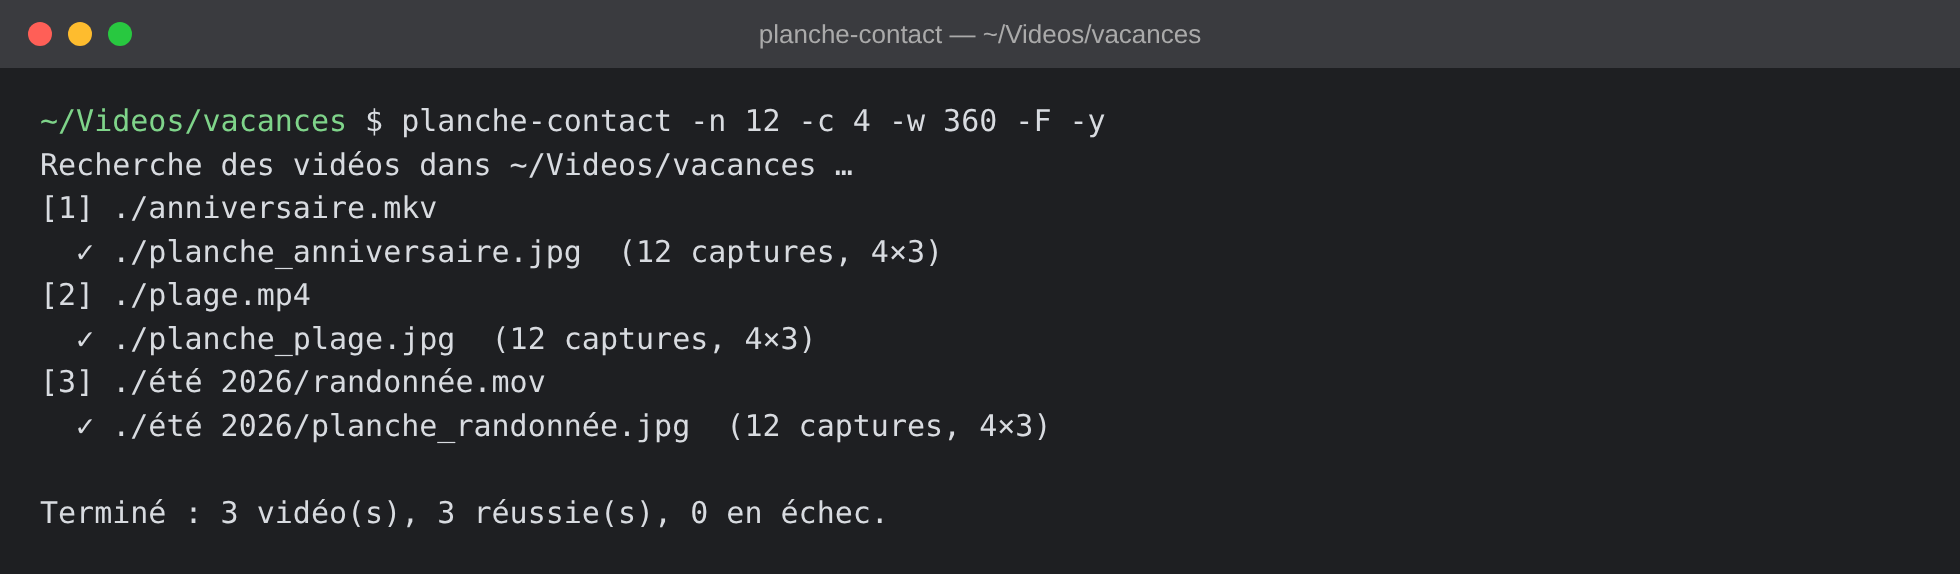
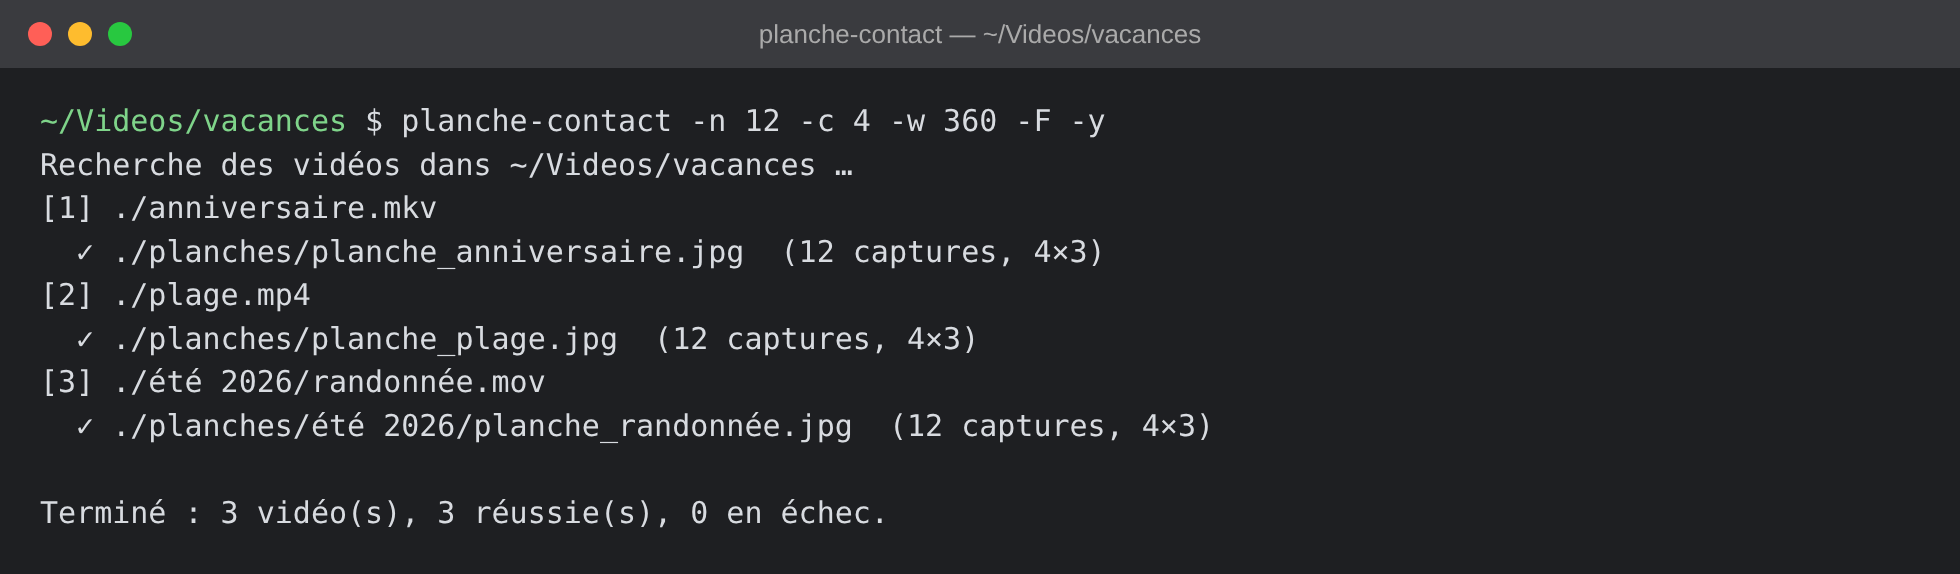
Les planches sont créées dans un sous-dossier du dossier analysé, avec l'arborescence recopiée
Claude-Session: https://claude.ai/code/session_013ET6z6BiTYFoRYycG2k8kt

diff --git a/README.md b/README.md
@@ -60,13 +60,13 @@ Le menu affiche le nombre de vidéos trouvées, les réglages, et un aperçu de 
 | `l` | Lancer le traitement |
 | `q` | Quitter |
 
-Les valeurs invalides sont refusées avec un message. Pour le préfixe, le suffixe et le dossier de sortie, saisir `-` revient à « aucun » / « à côté de la vidéo ».
+Les valeurs invalides sont refusées avec un message. Pour le préfixe, le suffixe et le dossier de sortie, saisir `-` revient à « aucun » (pour le dossier de sortie : « à côté de chaque vidéo »).
 
 ### Le traitement
 
 ![Traitement d'un dossier](docs/images/execution.png)
 
-Chaque vidéo est affichée avec le fichier produit et la disposition obtenue. Une planche déjà présente est ignorée, sauf si « Écraser l'existant » est sur `oui`.
+Chaque vidéo est affichée avec le fichier produit et la disposition obtenue. Les planches sont rangées dans le sous-dossier `planches` du dossier analysé (voir plus bas). Une planche déjà présente est ignorée, sauf si « Écraser l'existant » est sur `oui`.
 
 ### Sans menu : options en ligne de commande
 
@@ -74,7 +74,8 @@ Les options préremplissent le menu et prennent le pas sur les réglages sauvega
 
 ```bash
 planche-contact -n 12 -c 4 -w 360 -F -y
-planche-contact -p "" -s _planche -y      # plage.mp4 → plage_planche.jpg
+planche-contact -p "" -s _planche -y      # plage.mp4 → planches/plage_planche.jpg
+planche-contact -o "" -y                 # planches à côté de chaque vidéo
 ```
 
 | Option | Réglage |
@@ -87,7 +88,7 @@ planche-contact -p "" -s _planche -y      # plage.mp4 → plage_planche.jpg
 | `-f` | Format (`jpg` ou `png`) |
 | `-q` | Qualité JPEG (1 à 100) |
 | `-p` / `-s` | Préfixe / suffixe du fichier produit |
-| `-o` | Dossier de sortie |
+| `-o` | Sous-dossier de sortie (dans le dossier analysé) ; `-o ""` = à côté de chaque vidéo |
 | `-F` | Écraser les planches existantes |
 | `-y` | Lancer sans menu |
 | `-h` | Aide |
@@ -107,7 +108,7 @@ planche-contact -p "" -s _planche -y      # plage.mp4 → plage_planche.jpg
 | Préfixe du fichier de sortie (avant le nom) | `planche_` |
 | Suffixe du fichier de sortie (après le nom) | vide |
 | Extensions vidéo traitées | mp4 mov mkv avi m4v wmv flv webm mpg mpeg mts m2ts ts |
-| Dossier de sortie (vide = à côté de la vidéo) | vide |
+| Sous-dossier de sortie, créé dans le dossier analysé (vide = à côté de chaque vidéo) | `planches` |
 | Écraser les planches existantes | non |
 
 ## Fonctionnement
@@ -115,7 +116,8 @@ planche-contact -p "" -s _planche -y      # plage.mp4 → plage_planche.jpg
 - Les vidéos sont recherchées avec `find`, dans le dossier courant et tous ses sous-dossiers, sans tenir compte de la casse des extensions.
 - La durée est lue avec `ffprobe`. Les captures sont prises au milieu de N tranches égales de la vidéo : elles sont donc réparties uniformément, sans jamais tomber sur la toute première ou la toute dernière image.
 - L'assemblage utilise le filtre `tile` de ffmpeg (marge entre les images et marge extérieure réglables).
-- Le fichier produit s'appelle `<préfixe><nom de la vidéo><suffixe>.<format>`. Par exemple, `vacances/plage.mp4` donne `vacances/planche_plage.jpg` avec le préfixe par défaut, ou `vacances/plage_planche.jpg` avec `-p "" -s _planche`. Préfixe et suffixe peuvent aussi être utilisés ensemble.
+- **Dossier de sortie.** Par défaut, les planches sont créées dans un sous-dossier `planches` du dossier d'où vous lancez la commande, avec la même arborescence que les vidéos : `plage.mp4` donne `planches/planche_plage.jpg` et `été 2026/randonnée.mov` donne `planches/été 2026/planche_randonnée.jpg`. Deux vidéos de même nom dans des dossiers différents ne s'écrasent donc pas. Le nom du sous-dossier se change dans le menu ou avec `-o` ; il doit rester à l'intérieur du dossier analysé (pas de chemin absolu ni de `..`). Avec un nom vide (`-o ""`), chaque planche est créée à côté de sa vidéo. Le dossier de sortie n'est pas parcouru lors de la recherche des vidéos.
+- Le fichier produit s'appelle `<préfixe><nom de la vidéo><suffixe>.<format>`. Par exemple, `plage.mp4` donne `planche_plage.jpg` avec le préfixe par défaut, ou `plage_planche.jpg` avec `-p "" -s _planche`. Préfixe et suffixe peuvent aussi être utilisés ensemble.
 - Les fichiers dont le nom commence par le préfixe sont ignorés lors de la recherche.
 - Si le nombre de captures n'est pas un multiple du nombre de colonnes, les cases vides prennent la couleur de fond.
 - Si certaines captures échouent, la planche est assemblée avec celles obtenues.
